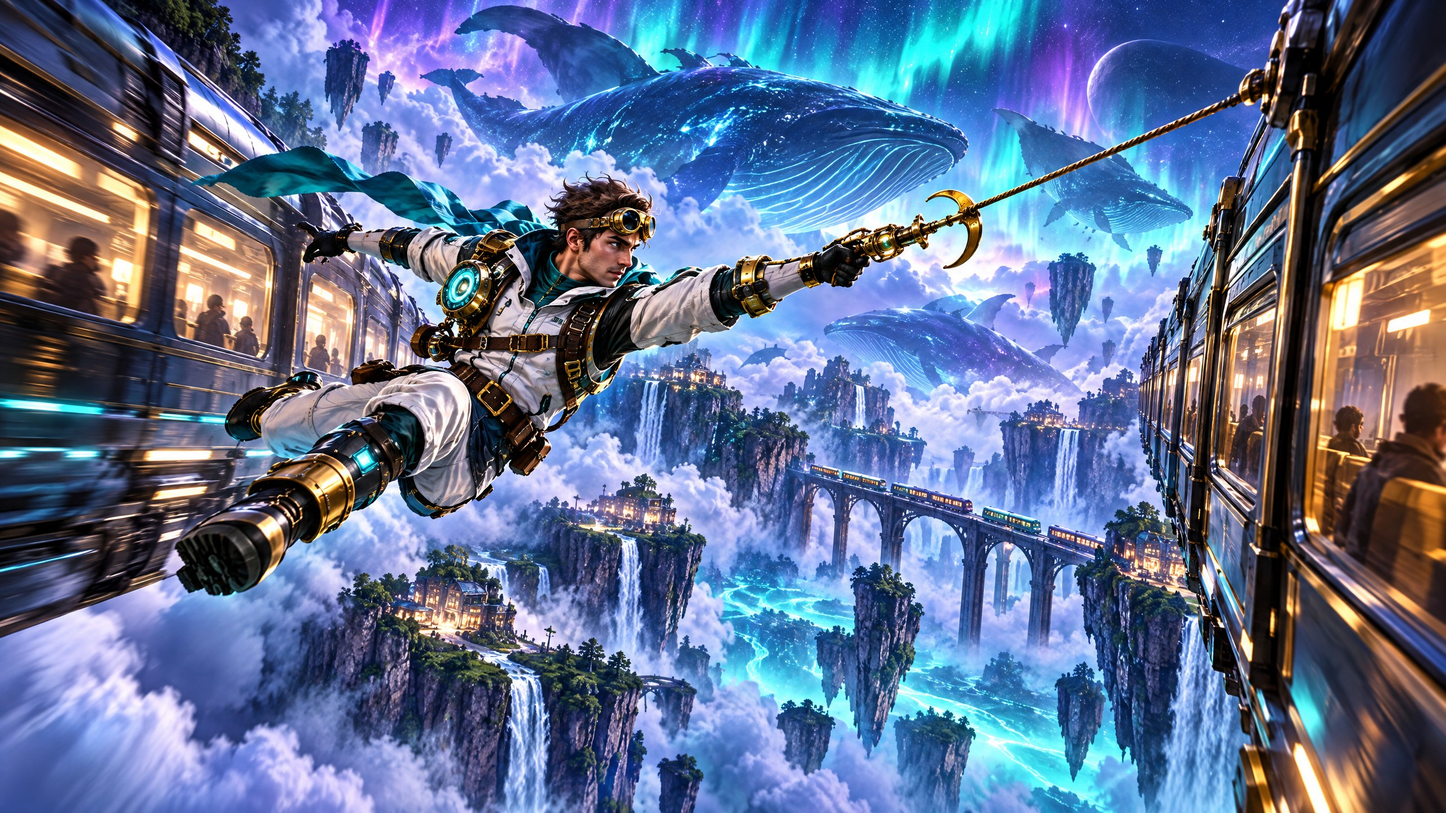
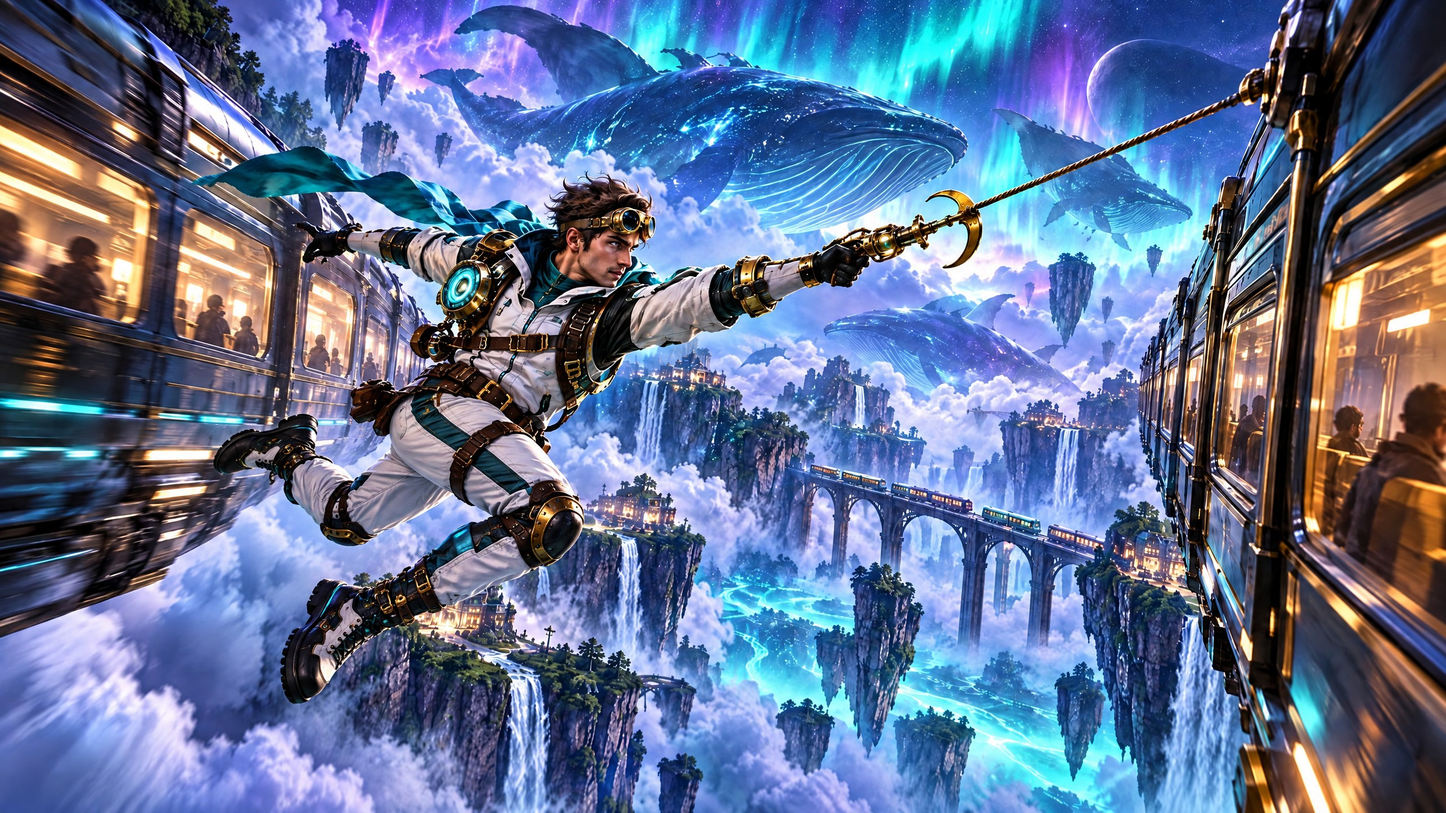
Исправить Небесный Крюк и добавить Моховой Клинок

diff --git a/src/lib/games.ts b/src/lib/games.ts
@@ -5,6 +5,7 @@ import ioImage from "@/assets/game-io.jpg";
 import neonRiptideImage from "@/assets/cover-action-neon-riptide.jpg";
 import emberVaultImage from "@/assets/cover-action-ember-vault.jpg";
 import skyhookImage from "@/assets/cover-action-skyhook.jpg";
+import mossbladeImage from "@/assets/cover-action-mossblade.jpg";
 export type Category =
   | "Экшен"
   | "Приключения"
@@ -253,7 +254,7 @@ export const games: Game[] = [
     tags: ["экшен"],
     description: "Новая игра из расширенного каталога GameHaven.",
     controls: ["WASD — движение", "Мышь — действие"],
-    image: actionImage,
+    image: mossbladeImage,
     rating: 4.7,
     plays: 2192000,
     year: 2026,
